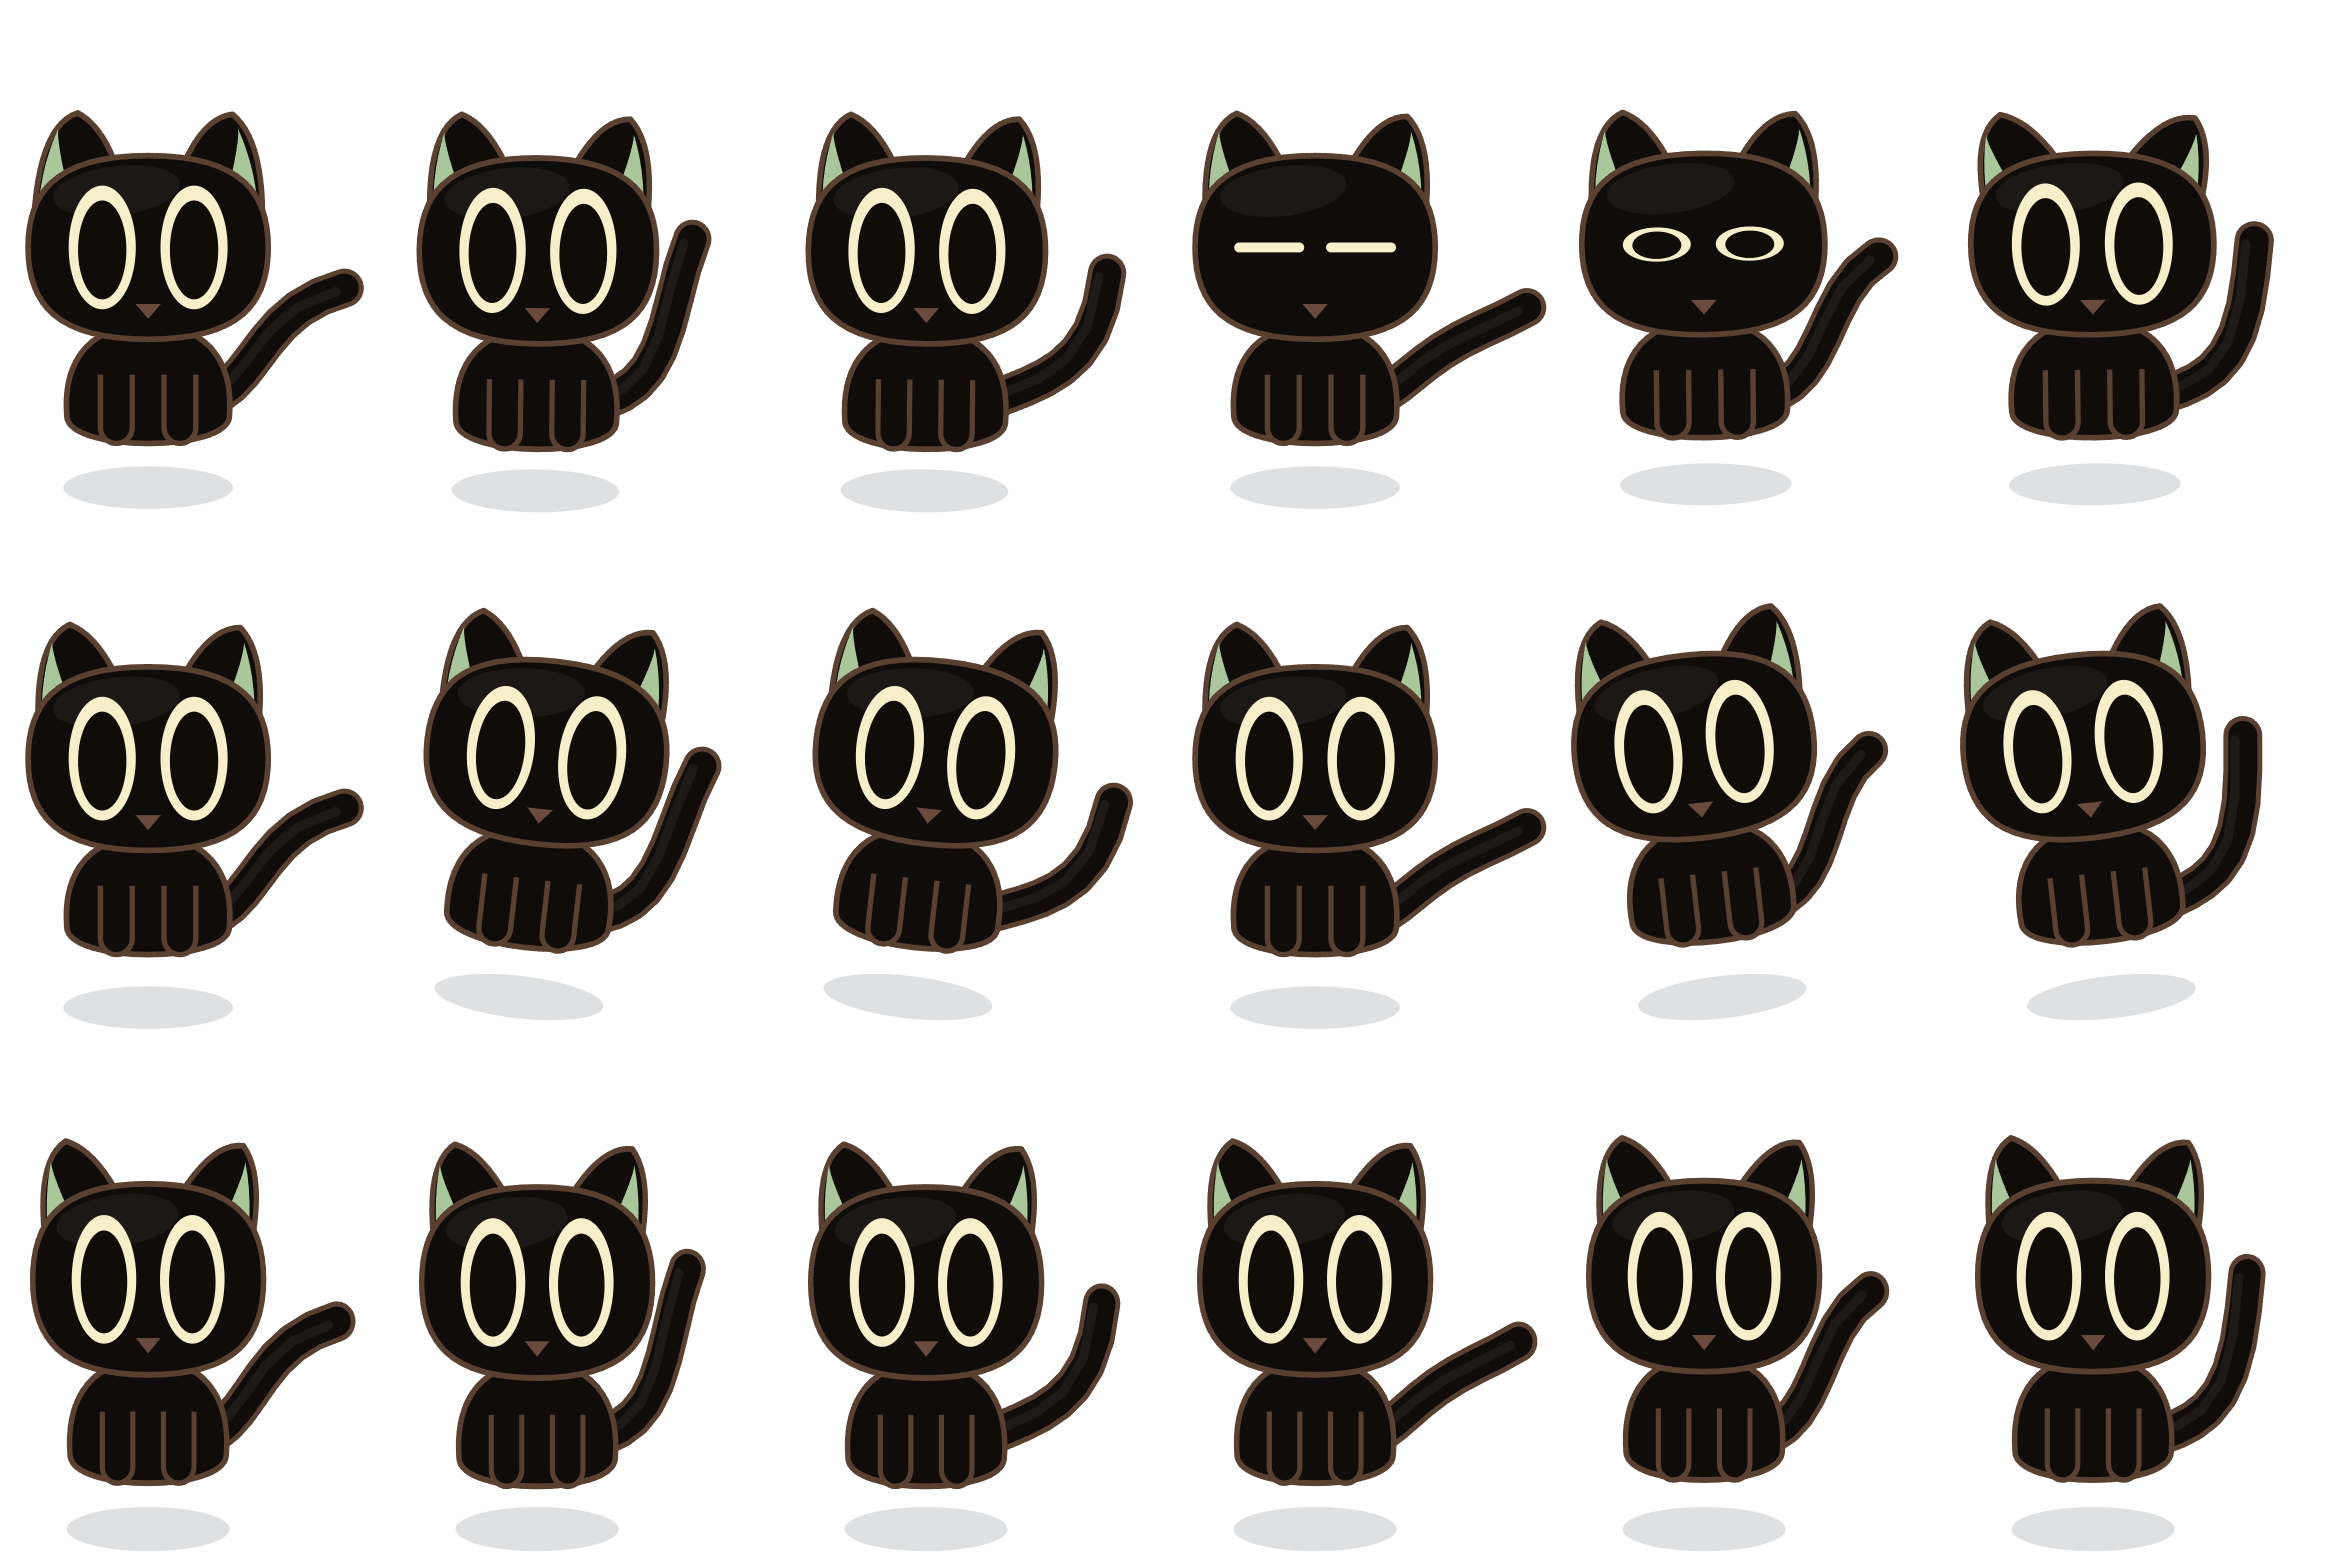
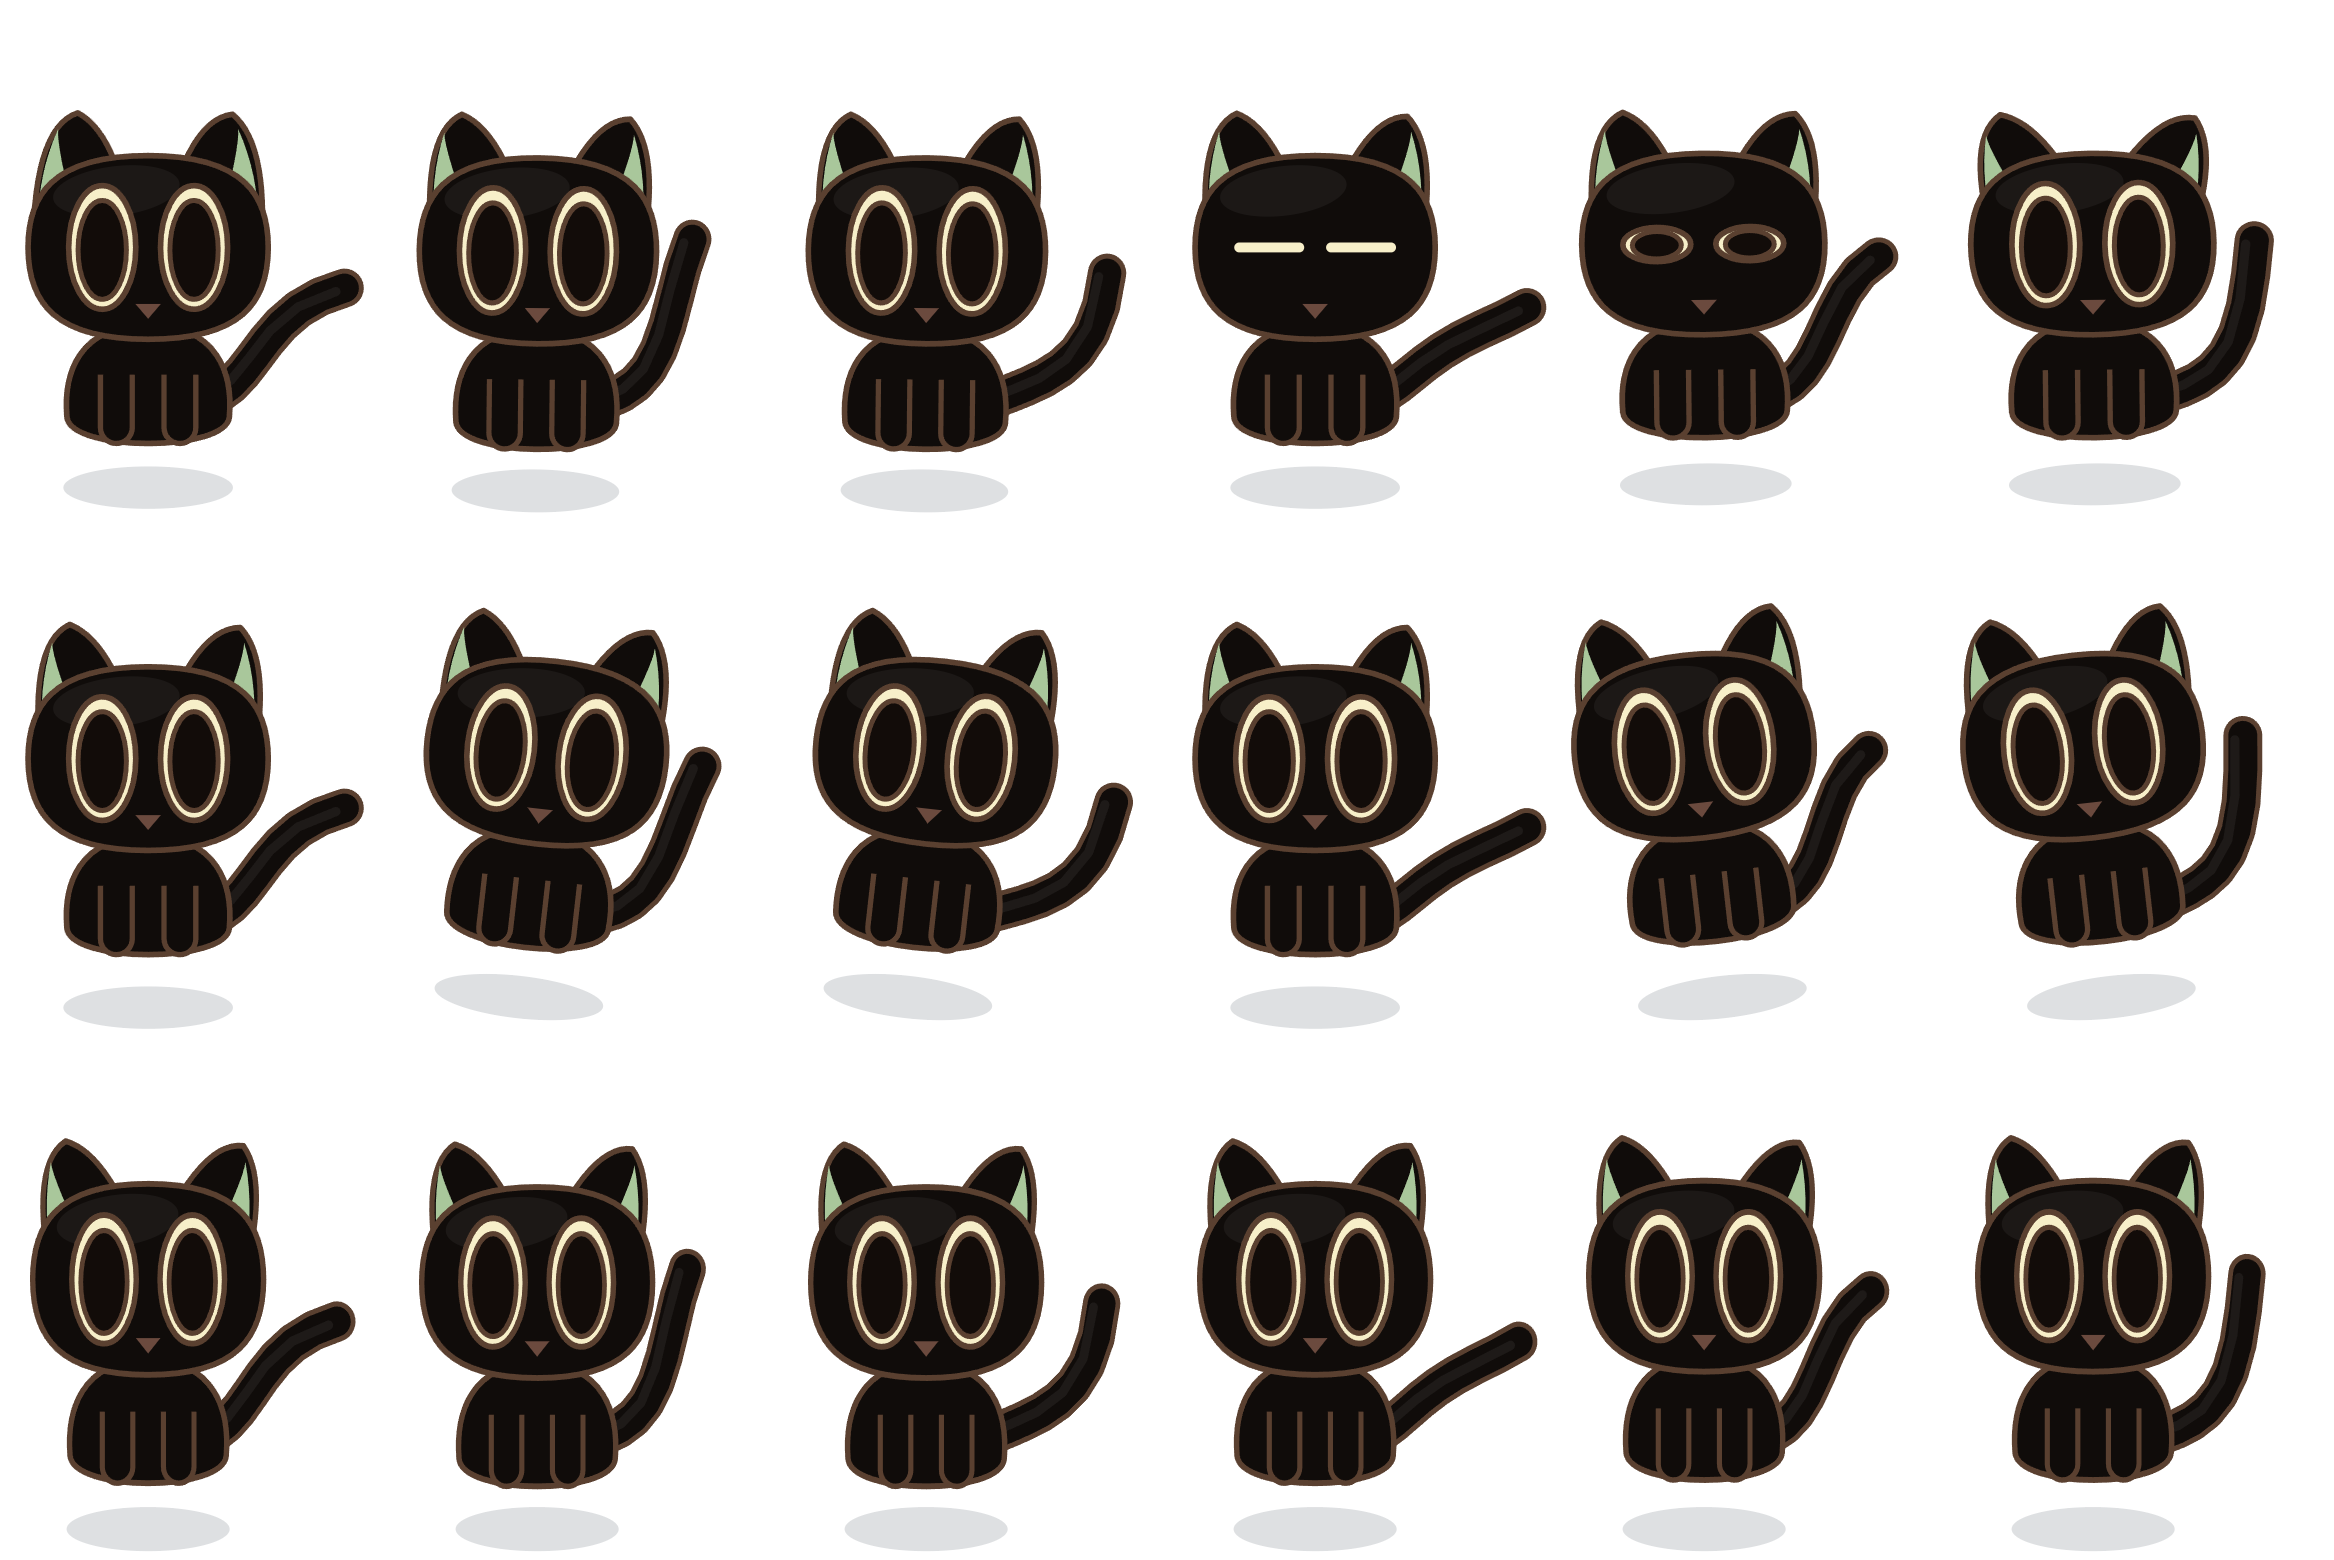
大眼黑猫：眼睛加内外两圈褐色描边
- 外圈：描在米黄眼圈的外沿（线宽 1.6）
- 内圈：描在黑色瞳孔的外沿（线宽 1.4）
两圈都用同一个褐色 FUR_D(#5A4030)，和身体其它描边统一。

diff --git a/build/make-skins.js b/build/make-skins.js
@@ -1977,12 +1977,14 @@ function drawCat(ctx, q, p, kind) {
       ctx.beginPath(); ctx.moveTo(ex - rx + 1, ey); ctx.lineTo(ex + rx - 1, ey); ctx.stroke();
       return;
     }
-    /* 米黄眼圈 */
+    /* 米黄眼圈 + 外圈褐描边 */
     ctx.fillStyle = CREAM;
     ctx.beginPath(); ctx.ellipse(ex, ey, rx, ry, 0, 0, TAU); ctx.fill();
-    /* 大黑瞳孔 */
+    ctx.strokeStyle = FUR_D; ctx.lineWidth = 1.6; ctx.stroke();
+    /* 大黑瞳孔 + 内圈褐描边 */
     ctx.fillStyle = PUPIL;
     ctx.beginPath(); ctx.ellipse(ex, ey + ry * 0.04, rx * 0.72, ry * 0.8, 0, 0, TAU); ctx.fill();
+    ctx.strokeStyle = FUR_D; ctx.lineWidth = 1.4; ctx.stroke();
   });
 
   /* ---------- 鼻子：很小一点 ---------- */
